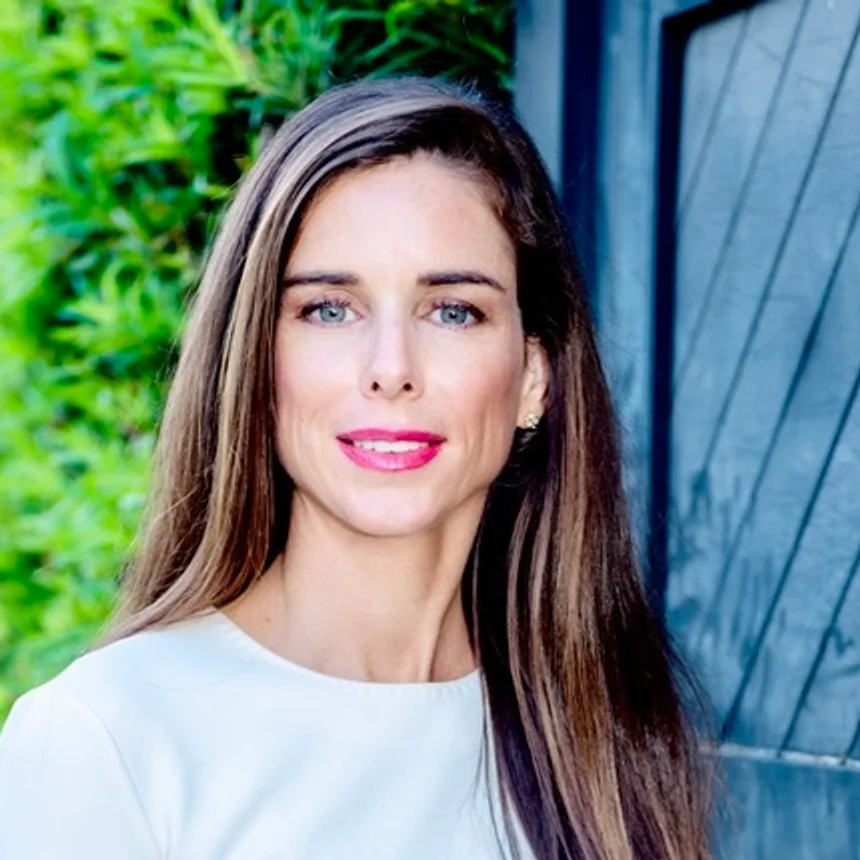
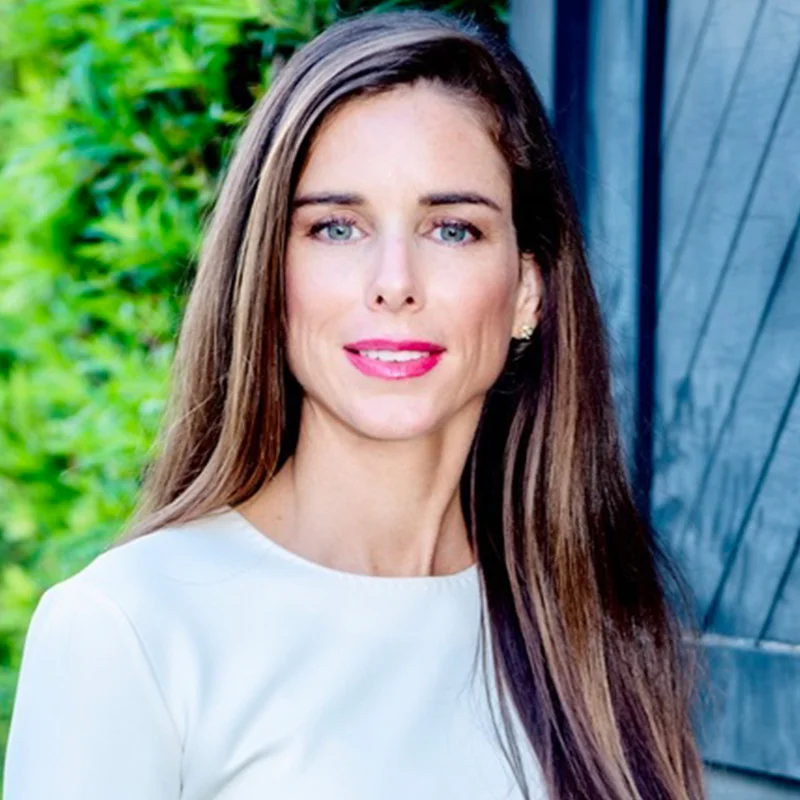
Team: supplied 800x800 headshots for Altmann, McKenna and Nguyen

diff --git a/src/raw/team.body.html b/src/raw/team.body.html
@@ -69,7 +69,7 @@
 </button>
 
 <button type="button" data-ecd-open="altmann" style="display:block;text-align:left;background:none;border:none;padding:0;margin:0;cursor:pointer;font:inherit;width:100%" class="ecd-hv-team-6">
-<div style="background:#E6E2DA;border-radius:14px;overflow:hidden;aspect-ratio:1/1"><img loading="lazy" src="/assets/photos/team/tanya-altmann.webp" alt="Dr. Tanya Altmann" style="width:100%;height:100%;object-fit:cover;display:block;transition:transform .4s ease;object-position:50% 0%"></div>
+<div style="background:#E6E2DA;border-radius:14px;overflow:hidden;aspect-ratio:1/1"><img loading="lazy" src="/assets/photos/team/tanya-altmann.webp" alt="Dr. Tanya Altmann" style="width:100%;height:100%;object-fit:cover;display:block;transition:transform .4s ease"></div>
 <h3 style="margin:18px 0 0;font:600 19px/1.2 'Graphik','Hanken Grotesk',sans-serif;letter-spacing:-.018em;color:#757575">Dr. Tanya Altmann</h3>
 <div style="margin:7px 0 0;font:400 19px/1.35 'Coming Soon',cursive;color:#67A081;white-space:nowrap">Pediatrics</div>
 </button>
@@ -303,7 +303,7 @@
 <div data-ecd-stop style="box-sizing:border-box;background:#ffffff;border-radius:18px;max-width:720px;width:100%;max-height:86vh;overflow:auto;padding:40px 44px 44px;position:relative">
 <button type="button" data-ecd-close aria-label="Close" style="position:absolute;top:18px;right:20px;width:38px;height:38px;border-radius:50%;border:none;background:#F0EEE9;color:#757575;font:400 20px/1 'Graphik','Hanken Grotesk',sans-serif;cursor:pointer">&times;</button>
 <div style="display:grid;grid-template-columns:132px minmax(0,1fr);gap:26px;align-items:start">
-<div style="background:#E6E2DA;border-radius:14px;overflow:hidden;aspect-ratio:1/1"><img src="/assets/photos/team/tanya-altmann.webp" alt="Dr. Tanya Altmann" style="width:100%;height:100%;object-fit:cover;display:block;object-position:50% 0%"></div>
+<div style="background:#E6E2DA;border-radius:14px;overflow:hidden;aspect-ratio:1/1"><img src="/assets/photos/team/tanya-altmann.webp" alt="Dr. Tanya Altmann" style="width:100%;height:100%;object-fit:cover;display:block"></div>
 <div>
 <h3 style="margin:0;font:600 30px/1.16 'Graphik','Hanken Grotesk',sans-serif;letter-spacing:-.02em;color:#757575">Dr. Tanya Altmann</h3>
 <div style="margin:8px 0 0;font:400 20px/1.35 'Coming Soon',cursive;color:#6FA4E2">Pediatrics</div>
